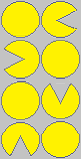
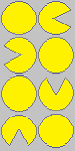
Pacman sprite- modified and Ghost colours changed

Changed region(s): [[0.0, 0.0, 0.9867, 1.0], [0.2933, 0.0, 0.6933, 0.106], [0.0, 0.0, 0.2133, 0.106]]

diff --git a/Pac/src/main/webapp/game.js b/Pac/src/main/webapp/game.js
@@ -17,8 +17,8 @@ var pacmanGame ={
     man: null,
     readGhost: null,
     blueGhost:null,
-    greenGhost:null,
-    whiteGhost:null,
+    orangeGhost:null,
+    pinkGhost:null,
     deadGhost:null,
     food:null,
     foodTable:null,
@@ -30,9 +30,9 @@ var pacmanGame ={
         pacmanGame.ctx = $("#pacman")[0].getContext("2d");
         pacmanGame.man = new Pacman (40, 40, pacmanGame.ctx);
         pacmanGame.readGhost = new Ghost (400, 200, pacmanGame.ctx, $("#ghostsprite")[0]);
-        pacmanGame.blueGhost = new Ghost (360, 200, pacmanGame.ctx, $("#ghostspriteBlue")[0]);
-        pacmanGame.greenGhost = new Ghost (360, 240, pacmanGame.ctx, $("#ghostspriteGreen")[0]);
-        pacmanGame.whiteGhost = new Ghost (400, 240, pacmanGame.ctx, $("#ghostspriteWhite")[0]);
+        pacmanGame.blueGhost = new Ghost (360, 200, pacmanGame.ctx, $("#ghostspriteInky")[0]);
+        pacmanGame.orangeGhost = new Ghost (360, 240, pacmanGame.ctx, $("#ghostspriteOrange")[0]);
+        pacmanGame.pinkGhost = new Ghost (400, 240, pacmanGame.ctx, $("#ghostspritePink")[0]);
         pacmanGame.deadGhost = new Ghost (200, 40, pacmanGame.ctx, $("#ghostspriteDead")[0]);
         
         //pacmanGame.field = new Field(pacmanGame.ctx);
@@ -71,10 +71,10 @@ var pacmanGame ={
         pacmanGame.readGhost.draw(pacmanGame.ctx);
         pacmanGame.blueGhost.animate(); 
         pacmanGame.blueGhost.draw(pacmanGame.ctx);
-        pacmanGame.greenGhost.animate(); 
-        pacmanGame.greenGhost.draw(pacmanGame.ctx);
-        pacmanGame.whiteGhost.animate(); 
-        pacmanGame.whiteGhost.draw(pacmanGame.ctx);
+        pacmanGame.orangeGhost.animate(); 
+        pacmanGame.orangeGhost.draw(pacmanGame.ctx);
+        pacmanGame.pinkGhost.animate(); 
+        pacmanGame.pinkGhost.draw(pacmanGame.ctx);
 
 
 

diff --git a/Pac/src/main/webapp/index.html b/Pac/src/main/webapp/index.html
@@ -10,11 +10,11 @@
         <canvas id="pacman" width="640" height="480"></canvas>
 
         <div class="hidden">
-            <img src="img/omapac_v1.png" id="pacsprite" width="81" height="156"/>
+            <img src="img/omapac_v1.png" id="pacsprite" width="75" height="151"/>
             <img src="img/omaghost.png" id="ghostsprite" width="81" height="76"/>
-            <img src="img/omaghost_blue.png" id="ghostspriteBlue" width="81" height="76"/>
-            <img src="img/omaghost_white.png" id="ghostspriteWhite" width="81" height="76"/>
-            <img src="img/omaghost_green.png" id="ghostspriteGreen" width="81" height="76"/>
+            <img src="img/omaghost_inky.png" id="ghostspriteInky" width="81" height="76"/>
+            <img src="img/omaghost_pink.png" id="ghostspritePink" width="81" height="76"/>
+            <img src="img/omaghost_orange.png" id="ghostspriteOrange" width="81" height="76"/>
             <img src="img/omaghost_dead.png" id="ghostspriteDead" width="81" height="76"/>
             <!--<img src="img/field.png" id="field" width="629" height="403"/>-->
         </div>   

diff --git a/Pac/src/main/webapp/characters.js b/Pac/src/main/webapp/characters.js
@@ -1,8 +1,8 @@
 var pacmanDirection = {
     RIGHT: 0,
-    LEFT: 39,
-    UP: 80,
-    DOWN:120
+    LEFT: 37,
+    UP: 74,
+    DOWN:112
 //    RIGHT: 0,
 //    LEFT: 36,
 //    UP: 72,
@@ -19,7 +19,7 @@ function Pacman (x,y, context){
     this.x=x;
     this.y=y;
     this.context = context;
-    this.animation = new Animation ($("#pacsprite")[0],0,40,39);
+    this.animation = new Animation ($("#pacsprite")[0],0,37,37);
 }
 
 Pacman.prototype.getX = function(){
@@ -31,9 +31,9 @@ Pacman.prototype.getY = function(){
 
 Pacman.prototype.clear = function(){
     //this.context.clearRect(this.x,this.y,40,36);
-    this.context.clearRect(this.x,this.y,40,40);
+    this.context.clearRect(this.x,this.y,37,37);
     this.context.fillStyle="rgb(195,195,195)";
-    this.context.fillRect(this.x,this.y, 40,40);
+    this.context.fillRect(this.x,this.y, 38,38);
 }
 
 Pacman.prototype.move = function(movement,path){
